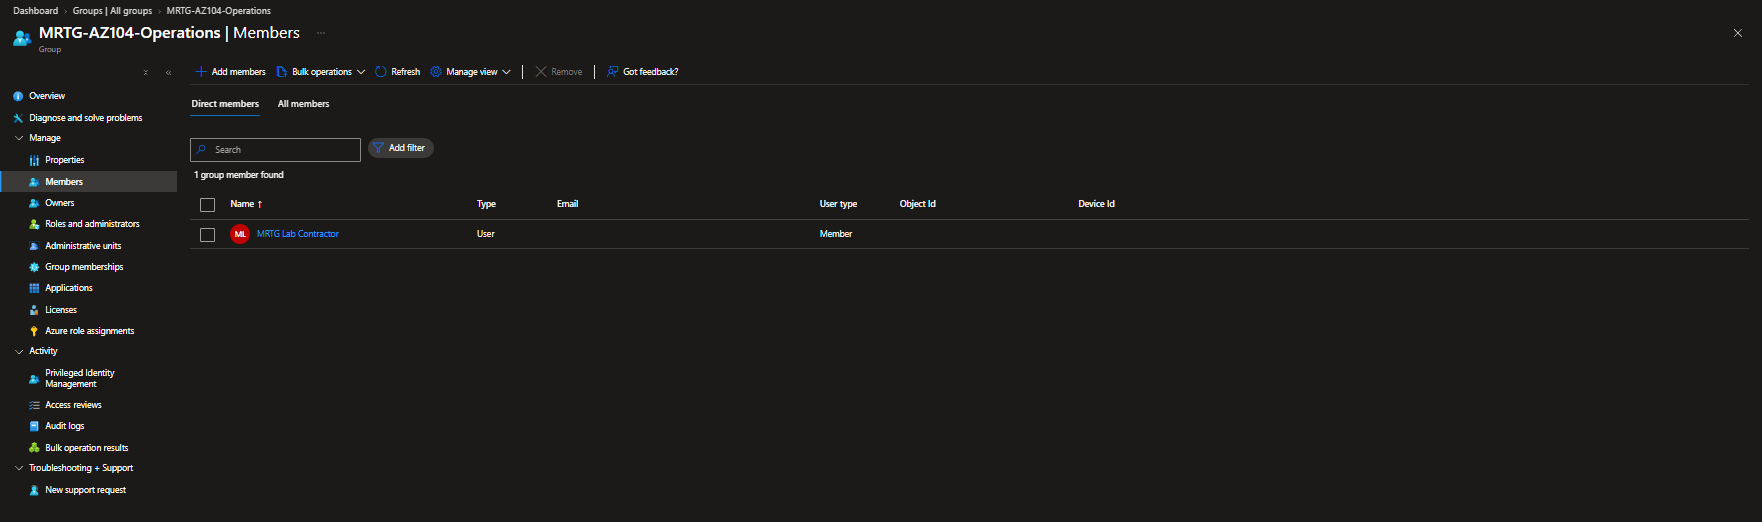
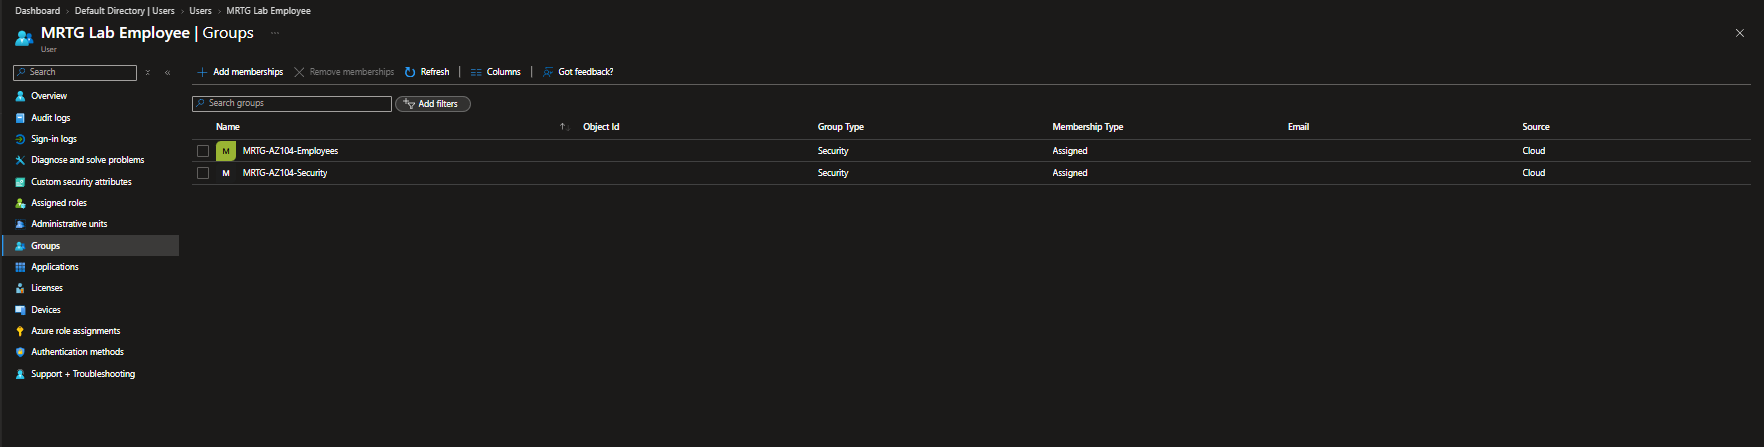
Complete Lab 03 identity lifecycle evidence and portfolio records

diff --git a/labs/lab-03-employee-and-contractor-lifecycle/README.md b/labs/lab-03-employee-and-contractor-lifecycle/README.md
@@ -1,11 +1,106 @@
 # Lab 03 — Employee and contractor lifecycle
 
-![AZ-104](https://img.shields.io/badge/Exam-AZ--104-0078D4) ![Planned](https://img.shields.io/badge/Status-Planned-lightgrey)
+![AZ-104](https://img.shields.io/badge/Exam-AZ--104-0078D4) ![Status](https://img.shields.io/badge/Status-Validated-2E7D32) ![Cleanup](https://img.shields.io/badge/Cleanup-Complete-2E7D32)
 
-## Planned scope
+## Business problem
 
-Synthetic employee and contractor identities, group membership, licensing boundaries, and offboarding.
+MRTG needed to onboard an employee and contractor, maintain departmental membership through an employee transfer, and remove the contractor's identity when the engagement ended. This lab demonstrates manual identity lifecycle administration in Microsoft Entra ID using synthetic accounts and assigned security groups.
 
-**Status:** Not performed. Implementation, evidence, and results will be added after execution.
+## Configuration
+
+Both accounts were cloud-created **Member** users in the existing directory. The contractor was a synthetic internal account, not an external B2B guest. No Azure RBAC or application permissions were attached to the lab groups.
+
+| Identity | Initial membership | After employee transfer | Final state |
+|---|---|---|---|
+| MRTG Lab Employee (`lab03.employee`) | Employees and Operations | Employees and Security | Removed from active users; permanent deletion user-confirmed |
+| MRTG Lab Contractor (`lab03.contractor`) | Contractors and Operations | Unchanged until offboarding | Disabled, memberships removed, deleted; permanent deletion user-confirmed |
+
+Group names use the prefix `MRTG-AZ104-`: `Employees`, `Contractors`, `Operations`, and `Security`. All four were temporary lab objects.
+
+## Joiner — created identities and assigned memberships
+
+The user list showed both synthetic accounts alongside the original administrator.
+
+![Employee and contractor accounts created](screenshots/lab03-users-created.png)
+
+The Employees and Contractors groups were cloud security groups with **Assigned** membership.
+
+![Assigned workforce security groups](screenshots/lab03-security-groups-created.png)
+
+Each identity was placed in its corresponding workforce group.
+
+![Employee in Employees](screenshots/lab03-employee-group-membership.png)
+
+![Contractor in Contractors](screenshots/lab03-contractor-group-membership.png)
+
+Both identities initially belonged to Operations, establishing the transfer baseline.
+
+![Both identities in Operations before transfer](screenshots/lab03-operations-members-before-transfer.png)
+
+## Mover — changed departmental membership
+
+The employee was removed from Operations and added to Security while retaining Employees membership. The employee's group list shows the resulting two memberships, with Operations absent.
+
+![Employee memberships after transfer](screenshots/lab03-employee-groups-after-transfer.png)
+
+Operations then contained only the contractor, corroborating removal of the employee from the old department group.
+
+![Only the contractor remains in Operations](screenshots/lab03-operations-members-after-transfer.png)
+
+The planned profile changes were Department `Security` and Job title `Identity Security Analyst`. No properties capture was retained, so those values are not presented as screenshot-verified results. Changing membership here demonstrates directory administration, not authorization against a protected resource.
+
+## Licensing boundary
+
+The contractor's Licenses page showed **No license assignments found**. Its notice directed assignment changes to the Microsoft 365 admin center. This verifies the contractor's assignment state, not tenant-wide license availability or the employee's license state.
+
+![Contractor has no assigned licenses](screenshots/lab03-contractor-no-license.png)
+
+## Leaver — disabled and removed the contractor
+
+The contractor's account status was **Disabled**. The overview also showed zero group memberships and zero assigned licenses at capture time.
+
+![Contractor account disabled](screenshots/lab03-contractor-signin-blocked.png)
+
+The Groups page independently confirmed **Not a member of any groups**.
+
+![Contractor memberships removed](screenshots/lab03-contractor-access-removed.png)
+
+The contractor then appeared under **Deleted users**, establishing the recoverable-deletion stage. No restoration test was performed.
+
+![Contractor in Deleted users](screenshots/lab03-contractor-deleted.png)
+
+Session revocation was completed and confirmed by the operator, but no audit event or active-session test was captured. The visible Revoke sessions button is not evidence that revocation occurred or that every application session ended immediately. No fresh sign-in rejection test was retained.
+
+## Cleanup
+
+The employee was also removed, and all four lab groups were deleted. The final active-user list contained only the original administrator.
+
+![Original administrator remains after cleanup](screenshots/lab03-user-cleanup-confirmed.png)
+
+The final group list showed **0 groups found**.
+
+![No groups remain after cleanup](screenshots/lab03-group-cleanup-confirmed.png)
+
+The operator confirmed session revocation and permanent deletion for both synthetic accounts. Permanent deletion is user-confirmed rather than screenshot-verified: an empty active-user list alone does not establish an empty Deleted users list. The original administrator, directory, subscription, and existing budget were not cleanup targets.
+
+## Validation and limits
+
+| Result | Evidence |
+|---|---|
+| Synthetic Member identities and memberships created | User, group, and member lists |
+| Employee moved from Operations to Security | Before/after Operations membership and employee group list |
+| Contractor had no assigned licenses | Contractor Licenses page |
+| Contractor disabled and memberships removed | Disabled status and empty membership page |
+| Contractor recoverably deleted | Deleted users page |
+| Active lab users and groups removed | Final user and group lists |
+| Sessions revoked and both users permanently deleted | Operator confirmation; no separate technical test capture |
+
+## Lessons and outcome
+
+The transfer preserved the employee classification while replacing departmental membership, avoiding accumulation of old memberships. Offboarding separated account disabling, membership removal, and deletion into visible stages.
+
+An identity, its memberships, and permissions attached to those memberships are separate concepts. This lab validated directory state changes; it did not prove application access, Azure RBAC enforcement, or immediate session termination. Scoped allowed/denied operations remain part of Lab 04.
+
+All temporary lab identities and groups were cleaned up. No paid workload was deployed for this directory exercise, and no cost screenshot or invoice was collected. See the [access-control matrix](../../docs/access-control-matrix.md) and [cost ledger](../../docs/cost-ledger.md).
 
 [All labs](../../docs/progress.md)

diff --git a/docs/architecture.md b/docs/architecture.md
@@ -1,6 +1,6 @@
 # MRTG architecture
 
-**Status: Labs 01–02 baseline and organization validated; workload architecture remains proposed.**
+**Status: Labs 01–03 baseline, organization, and directory lifecycle validated; workload architecture remains proposed.**
 
 The last verified baseline used the existing Entra directory and active `MRTG-AZ104-Lab-Subscription` with Owner access. A $10 monthly budget was configured. The temporary tagged resource group was deleted; no paid workload was deployed. This is recorded evidence, not a live inventory check. See [Lab 01](../labs/lab-01-subscription-inventory-and-cost-baseline/README.md).
 
@@ -42,7 +42,8 @@ Network reachability and identity authorization must both be tested; success at 
 | Temporary Lab 01 resource group | Created, tagged, then deleted | Lab 01 creation and cleanup evidence | Recreate only when needed |
 | Lab 02 departmental groups | Operations and Security groups created, then deleted | [Lab 02](../labs/lab-02-resource-organization-and-management-hierarchy/README.md) | Historical evidence; no groups retained |
 | Management hierarchy | Tenant Root Group → lab subscription inspected | Lab 02 hierarchy capture | Recheck before hierarchy changes |
-| Cloud test identities and scoped roles | Planned | None | Labs 03–04 |
+| Lab 03 cloud identities and groups | Two synthetic users and four groups created, then cleaned up | [Lab 03](../labs/lab-03-employee-and-contractor-lifecycle/README.md); active-list cleanup captured, permanent user deletion confirmed by operator | Historical evidence; no lab objects retained |
+| Scoped workload roles | Planned; Lab 03 groups had no attached RBAC or application permissions | None | Lab 04 |
 | Network and storage boundary | Planned | None | Labs 08–17 |
 | Workload and managed identity | Planned | None | Lab 19 |
 | Alerts and verified restore | Planned | None | Labs 25–29 |

diff --git a/README.md b/README.md
@@ -1,6 +1,6 @@
 # MRTG Azure Administration
 
-![AZ-104](https://img.shields.io/badge/Exam-AZ--104-0078D4) ![Labs validated](https://img.shields.io/badge/Labs_validated-2_of_32-2E7D32)
+![AZ-104](https://img.shields.io/badge/Exam-AZ--104-0078D4) ![Labs validated](https://img.shields.io/badge/Labs_validated-3_of_32-2E7D32)
 
 Hands-on Azure administration for the fictional **Monroe Redstone Technology Group**, with an emphasis on identity, access control, troubleshooting, and operational accountability.
 
@@ -12,6 +12,7 @@ Each completed lab documents the business problem, configuration decisions, work
 |---|---|---|
 | [01 — Subscription inventory and cost baseline](labs/lab-01-subscription-inventory-and-cost-baseline/README.md) | Active subscription and Owner access verified; monthly budget configured; tagged resource group created and removed | Validated |
 | [02 — Resource organization and management hierarchy](labs/lab-02-resource-organization-and-management-hierarchy/README.md) | Departmental groups and tags validated; inherited Owner access and management hierarchy inspected; groups removed | Validated |
+| [03 — Employee and contractor lifecycle](labs/lab-03-employee-and-contractor-lifecycle/README.md) | Synthetic identities and memberships managed through onboarding, transfer, offboarding, and cleanup | Validated — directory state |
 
 [View all 32 labs and their status](docs/progress.md)
 

diff --git a/docs/access-control-matrix.md b/docs/access-control-matrix.md
@@ -10,6 +10,17 @@
 
 Both temporary groups were subsequently deleted. Lab 02 created no role assignments. The administrator reported that the inherited Owner role remained visible while the Security group's `Owner` tag was removed; no separate comparison capture was retained. This metadata check does not validate least-privilege access or a denied operation.
 
+## Observed directory lifecycle
+
+[Lab 03](../labs/lab-03-employee-and-contractor-lifecycle/README.md) demonstrated assigned security-group membership changes without attaching Azure RBAC or application permissions.
+
+| Identity | Initial groups | Transfer/offboarding result | Cleanup |
+|---|---|---|---|
+| MRTG Lab Employee | Employees, Operations | Employees, Security; Operations removed | Active identity removed; permanent deletion operator-confirmed |
+| MRTG Lab Contractor | Contractors, Operations | Disabled; no group memberships before deletion | Recoverable deletion captured; permanent deletion operator-confirmed |
+
+Groups used the `MRTG-AZ104-` prefix and were deleted afterward. Session revocation for both users was operator-confirmed, not tested against an active application session. No fresh sign-in denial, application authorization, or Azure RBAC test was captured.
+
 ## Proposed workload access
 
 | Identity | Business need | Proposed role | Proposed scope | Expected allowed action | Expected denied action | Actual/evidence |

diff --git a/docs/cost-ledger.md b/docs/cost-ledger.md
@@ -6,5 +6,6 @@ Series cash ceiling: $100. Record verified credits separately. Retain the existi
 |---|---|---|---|---|---|---|---|---|
 | 2026-09-17 (UTC record) | 01 | No paid workload deployed | USD 0.00 shown | Unverified; not assumed | Not invoiced/verified | Not finalized | Subscription and monthly USD 10 budget; no workload resources | Temporary group deleted; empty resource-group list verified |
 | 2026-09-19 | 02 | No metered workload deployed; two empty groups | USD 0.00 at session start; no final cost capture | Unverified; not assumed | Not invoiced/verified | Not finalized | Existing subscription and budget; no Lab 02 groups | Both departmental groups deleted; empty list verified in [Lab 02](../labs/lab-02-resource-organization-and-management-hierarchy/README.md) |
+| 2026-09-20 (portal date) | 03 | Directory exercise; no paid workload deployed | Not captured | Unverified; not assumed | Not invoiced/verified | Not finalized | Existing directory, administrator, subscription, and budget; no Lab 03 objects | Active user/group cleanup captured; permanent user deletion operator-confirmed in [Lab 03](../labs/lab-03-employee-and-contractor-lifecycle/README.md) |
 
 Cost reporting can lag. Check retained disks, IPs, plans, endpoints, logs, snapshots, and backup data as applicable.

diff --git a/docs/progress.md b/docs/progress.md
@@ -1,6 +1,6 @@
 # Lab Portfolio
 
-**2/32 labs validated.** Labs 01–02 document completed portal work and cleanup; Labs 03–32 remain planned.
+**3/32 labs validated.** Labs 01–03 document completed portal work and cleanup, with evidence limits stated in each lab; Labs 04–32 remain planned.
 
 ## Lab index
 
@@ -8,7 +8,7 @@
 |---|---|---|
 | 01 | [Subscription inventory and cost baseline](../labs/lab-01-subscription-inventory-and-cost-baseline/README.md) | Validated — portal baseline |
 | 02 | [Resource organization and management hierarchy](../labs/lab-02-resource-organization-and-management-hierarchy/README.md) | Validated — organization and inheritance |
-| 03 | [Employee and contractor lifecycle](../labs/lab-03-employee-and-contractor-lifecycle/README.md) | Planned |
+| 03 | [Employee and contractor lifecycle](../labs/lab-03-employee-and-contractor-lifecycle/README.md) | Validated — directory state |
 | 04 | [Scoped administration](../labs/lab-04-scoped-administration/README.md) | Planned |
 | 05 | [Guardrails with policy and locks](../labs/lab-05-guardrails-with-policy-and-locks/README.md) | Planned |
 | 06 | [Password recovery and licensing](../labs/lab-06-password-recovery-and-licensing/README.md) | Planned |
